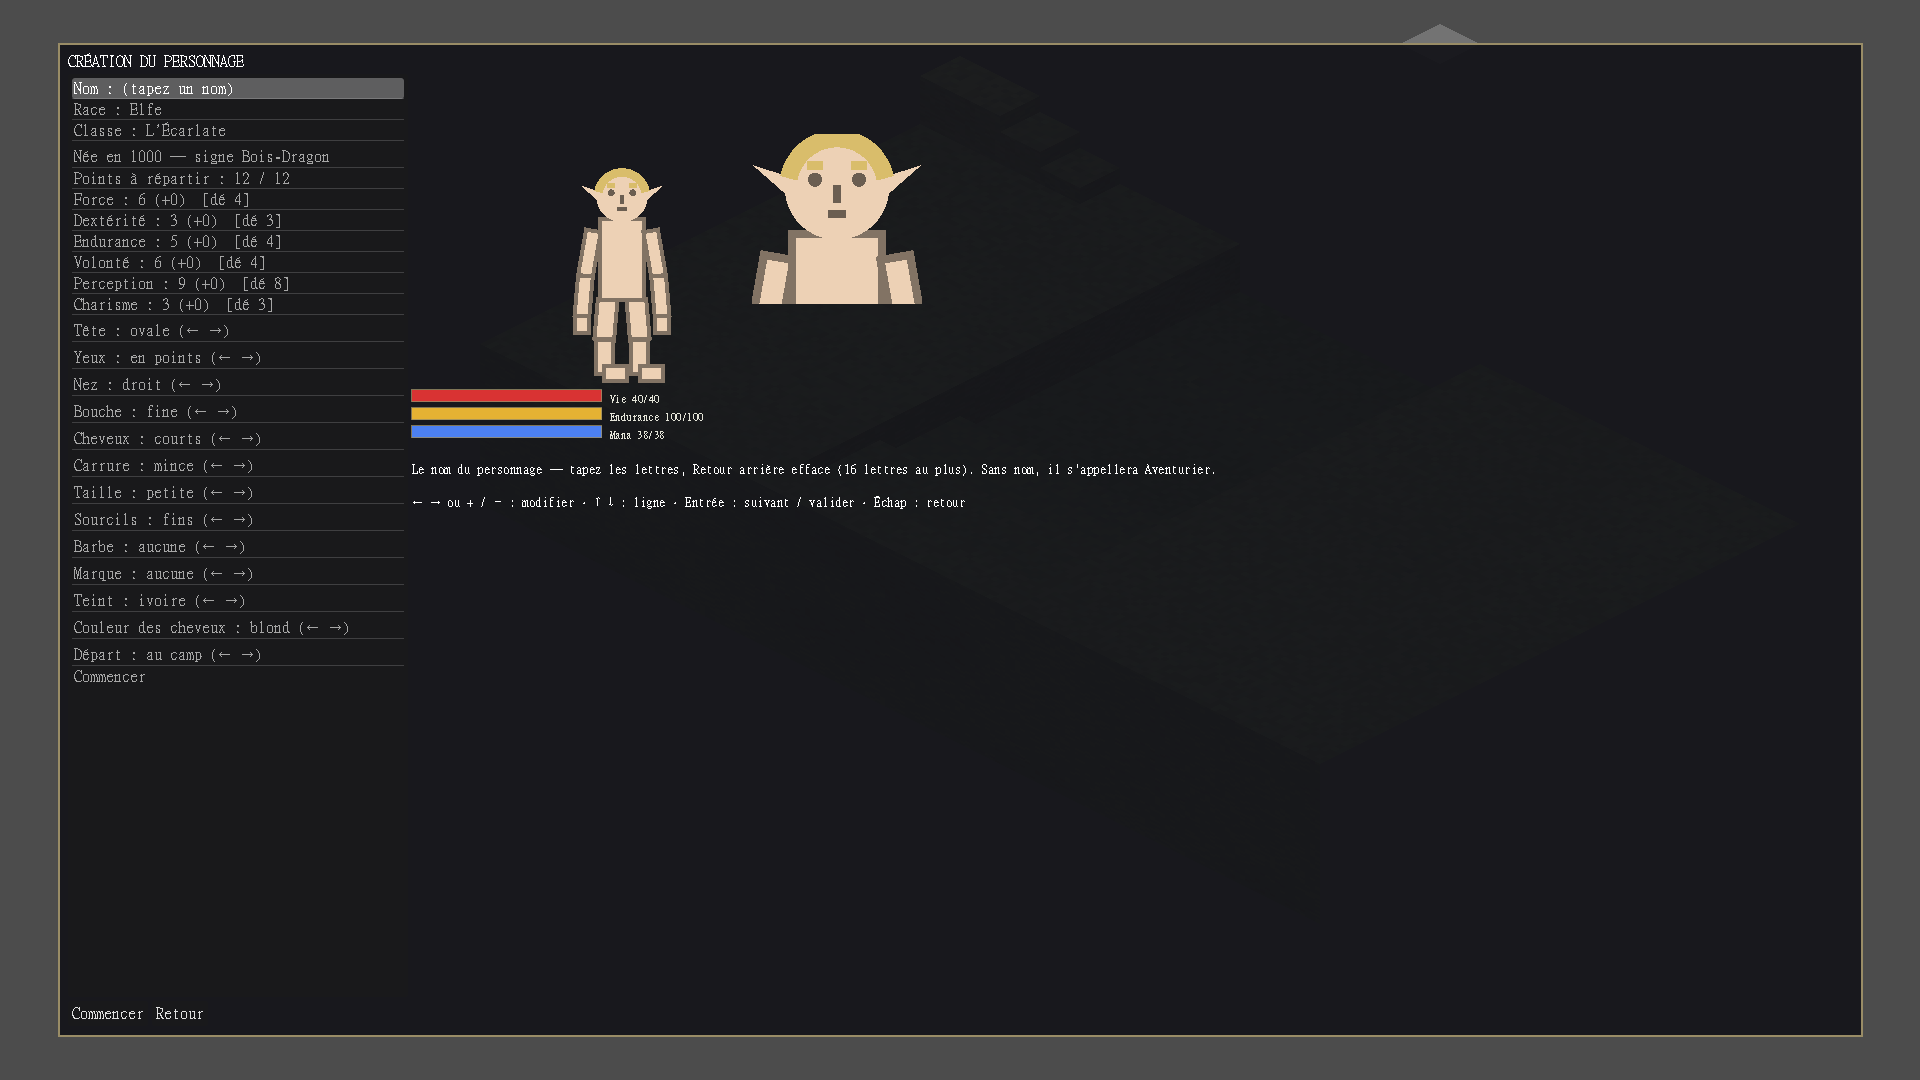
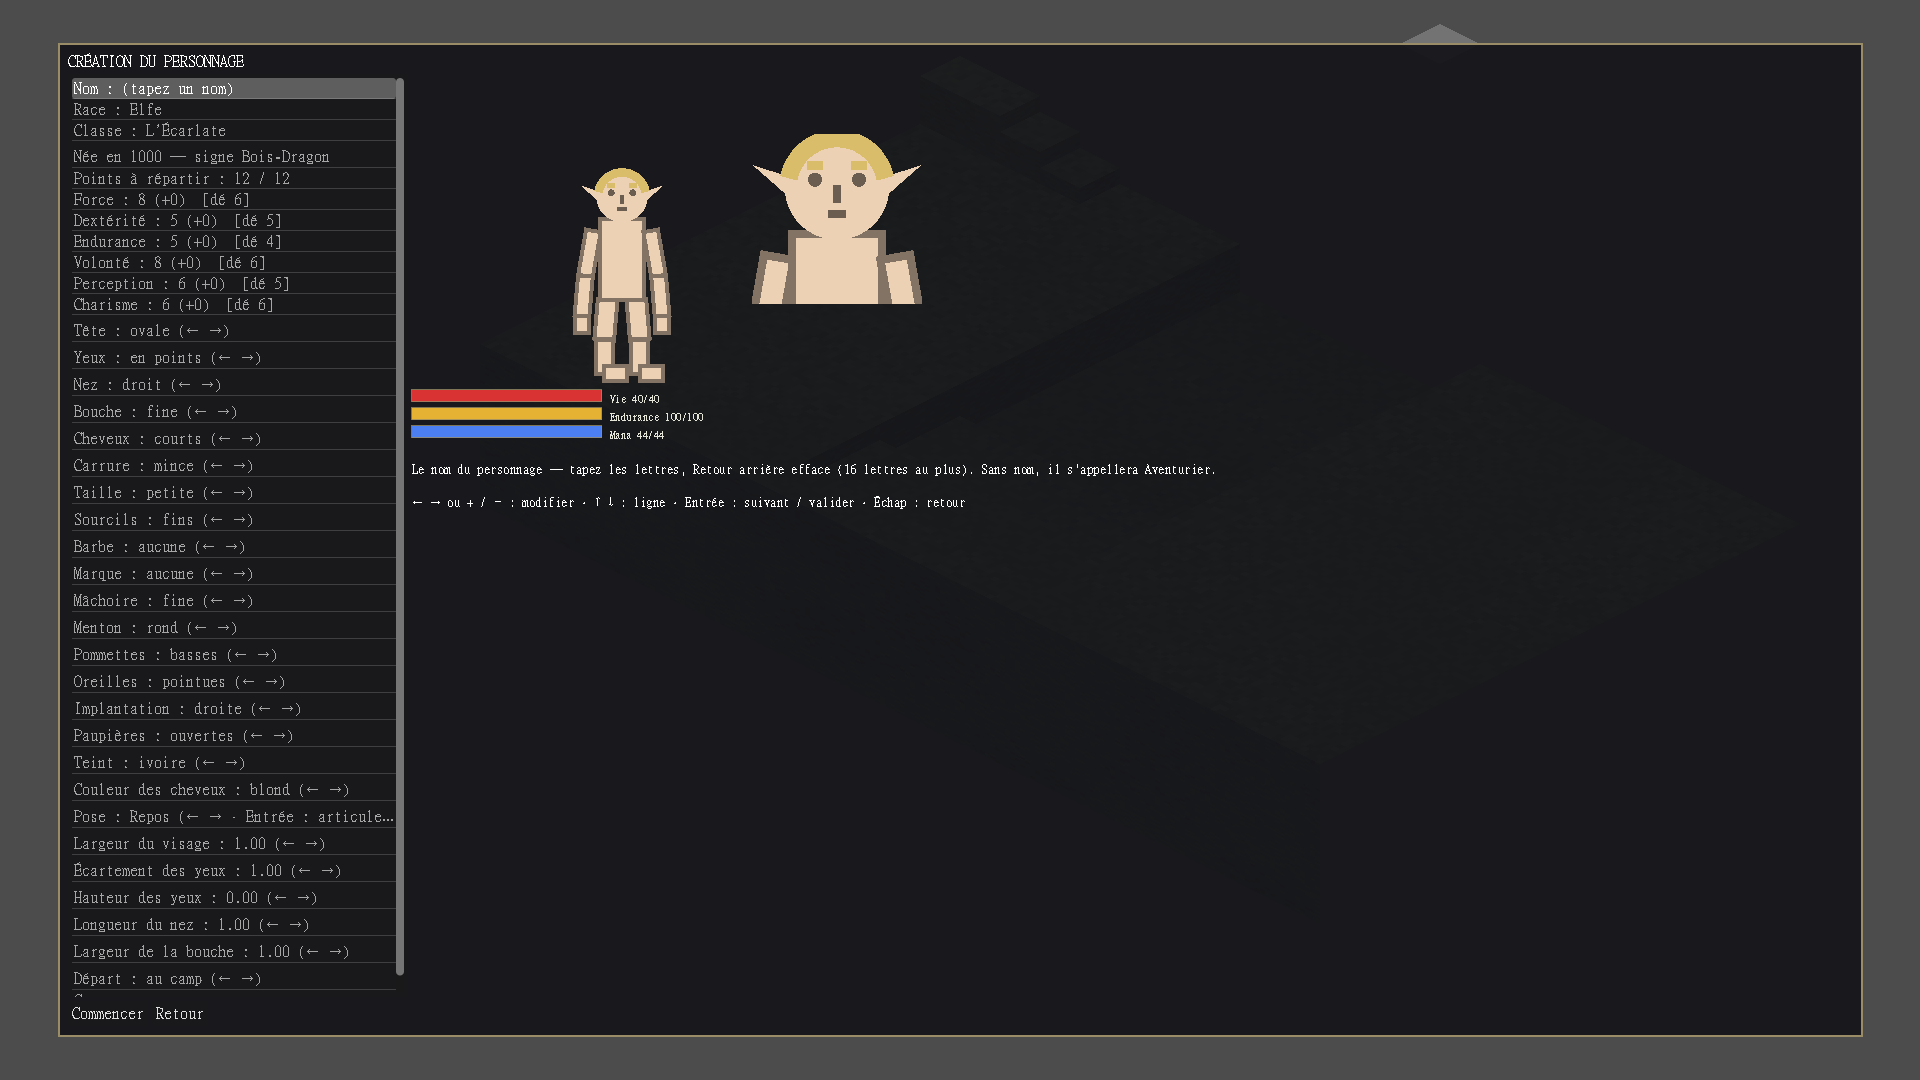
Le visage devient un portrait-robot : seize traits et cinq curseurs
Machoire, menton, pommettes, forme des oreilles, implantation des cheveux
et paupieres rejoignent le catalogue, chacune dessinee. Surtout, cinq
reglages continus s'ajoutent aux valeurs discretes -- largeur du visage,
ecartement et hauteur des yeux, longueur du nez, largeur de la bouche --
et c'est ce qui separe un portrait-robot d'un catalogue : deux
personnages aux memes traits cessent de se ressembler. Les oreilles
etaient une longueur chiffree dans le bloc de race, ce qui affichait une
cle de traduction a l'ecran : elles deviennent un locus comme la barbe.

Changed region(s): [[0.1875, 0.0917, 0.2188, 0.9167], [0.0312, 0.6722, 0.1562, 0.9167], [0.0312, 0.55, 0.125, 0.6417]]

diff --git a/docs/00 - Index/Vers la production.md b/docs/00 - Index/Vers la production.md
@@ -84,7 +84,7 @@ etape: 0
 > **Annulé par le designer (2026-09-01, 7 h 00)** : le **rendu pixelisé** (point 55) et le **zoom de la carte** (point 59) sont retirés — codés, essayés, puis supprimés du code et des données plutôt que laissés derrière un interrupteur. Le glisser de la carte, l'avatar du joueur, les cellules en 5 × 5 et le voyage au coût d'une marche restent.
 > **Ajout du designer (2026-09-01, 3 h 10)** : 55. **Le rendu pixelisé plaît** — le designer aime la « résolution pixelisée » des captures zoomées. Précision technique à consigner : ces images sont des **agrandissements au plus proche voisin** d'un détail (×6), pas le rendu du jeu — le jeu tourne en 1920 × 1080 avec des polygones nets. Pour l'obtenir vraiment, il faut **rendre à basse résolution puis agrandir** : un `SubViewport` à 480 × 270 (ou 640 × 360) en `texture_filter = nearest`, agrandi au plein écran — tout le jeu devient alors un vrai pixel art, l'interface comprise, et les polygones s'alignent sur une grille de pixels. À trancher : la résolution interne, et si le texte du HUD suit (il deviendrait illisible sous 480 de large). — [[Direction artistique]], [[Écrans d'interface]]
 > **Ajout du designer (2026-09-01, 1 h 50)** : 54. **Le paperdoll sera de face, et seulement de face** — décision du designer en réponse à l'objection sur les huit orientations : puisqu'une seule vue est nécessaire, les visages (et plus tard des assets 2D de face) redeviennent simples. — [[Squelette modulaire et points d'attache]], [[Apparence — données et équipement]]
-> **Ajout du designer (2026-09-01, 1 h 20)** : 53. **Les visages façon portrait-robot** — le designer demande si une **base de données accessible**
+> **Ajout du designer (2026-09-01, 1 h 20)** : 53. **Fait (2026-09-01, 12 h 10)** — seize loci (mâchoire, menton, pommettes, oreilles, implantation, paupières s'ajoutent) et **cinq réglages continus** (largeur du visage, écartement et hauteur des yeux, longueur du nez, largeur de la bouche). 53. **Les visages façon portrait-robot** — le designer demande si une **base de données accessible**
 > fournirait des traits tout faits (yeux, nez, bouches, coiffures) au lieu de les dessiner un à un.
 > **Précision du designer (1 h 35) : les assets ne sont pas interdits** — le full code est un choix pour maintenant, et des assets viendront plus tard.
 > État des lieux : les logiciels d'identikit (E-FIT, FACES, Identi-Kit) sont **propriétaires** ; en libre il existe des bibliothèques d'avatars **SVG**

diff --git a/docs/06 - Êtres/Apparence — données et équipement.md b/docs/06 - Êtres/Apparence — données et équipement.md
@@ -51,6 +51,11 @@ Aucune étape ne demande *quel type d'être* on dessine. C'est la contrepartie v
 > [!success] Codé le 2026-08-31 — les loci visuels existent enfin à l'écran (designer, points 39 et 41)
 > Le pipeline décrit ici — *silhouette peinte par les loci*, sans jamais demander quel type d'être on dessine — devient du code. `data/apparence.json` déclare six **loci** (tête, yeux, nez, bouche, cheveux, carrure), leurs facteurs et deux palettes (six teints, cinq couleurs de cheveux) ; chaque race porte un bloc `apparence` (`data/races/*.json`) qui donne son **défaut** : le nain est court et large, barbu, ambre et roux ; l'elfe élancé, mince, ivoire, **oreilles pointues** ; le spectre cendré et argenté ; le vampire pâle aux oreilles courtes ; le lycanthrope grand et massif. Le Paperdoll lit ces chiffres — échelle du rig, largeur par carrure, diamètre du crâne, longueur d'oreille et de barbe, visage dessiné sur le disque de la tête — et **aucune branche par race** n'est écrite nulle part.
 
+> [!success] Codé le 2026-09-01 — le visage passe au portrait-robot (designer, point 53)
+> Dix loci ne suffisaient pas à distinguer deux visages. Le catalogue en compte **seize** : s'ajoutent la **mâchoire** (fine, carrée, lourde), le **menton** (rond, pointu, fendu), les **pommettes** (basses, hautes, saillantes), la **forme des oreilles** (rondes, pointues, longues, collées — désormais un locus comme la barbe, avec sa longueur en données), l'**implantation des cheveux** (droite, en pointe, dégarnie) et les **paupières** (ouvertes, lourdes, plissées). Chacune est **dessinée**, aucune n'est un libellé mort.
+>
+> Surtout, cinq **réglages continus** rejoignent les valeurs discrètes — largeur du visage, écartement et hauteur des yeux, longueur du nez, largeur de la bouche. C'est ce qui sépare un portrait-robot d'un simple catalogue : deux personnages aux mêmes traits ne se ressemblent plus. Les bornes et les pas vivent dans `apparence.json → curseurs`.
+
 ## Liens
 - **Dépend de** : [[Blocs de l'être]], [[Squelette modulaire et points d'attache]], [[Loci — les dix types]]
 - **Alimente** : [[Vivarium — loci et variétés]], [[Équipement — 14 slots]], [[Monstres rares]]
